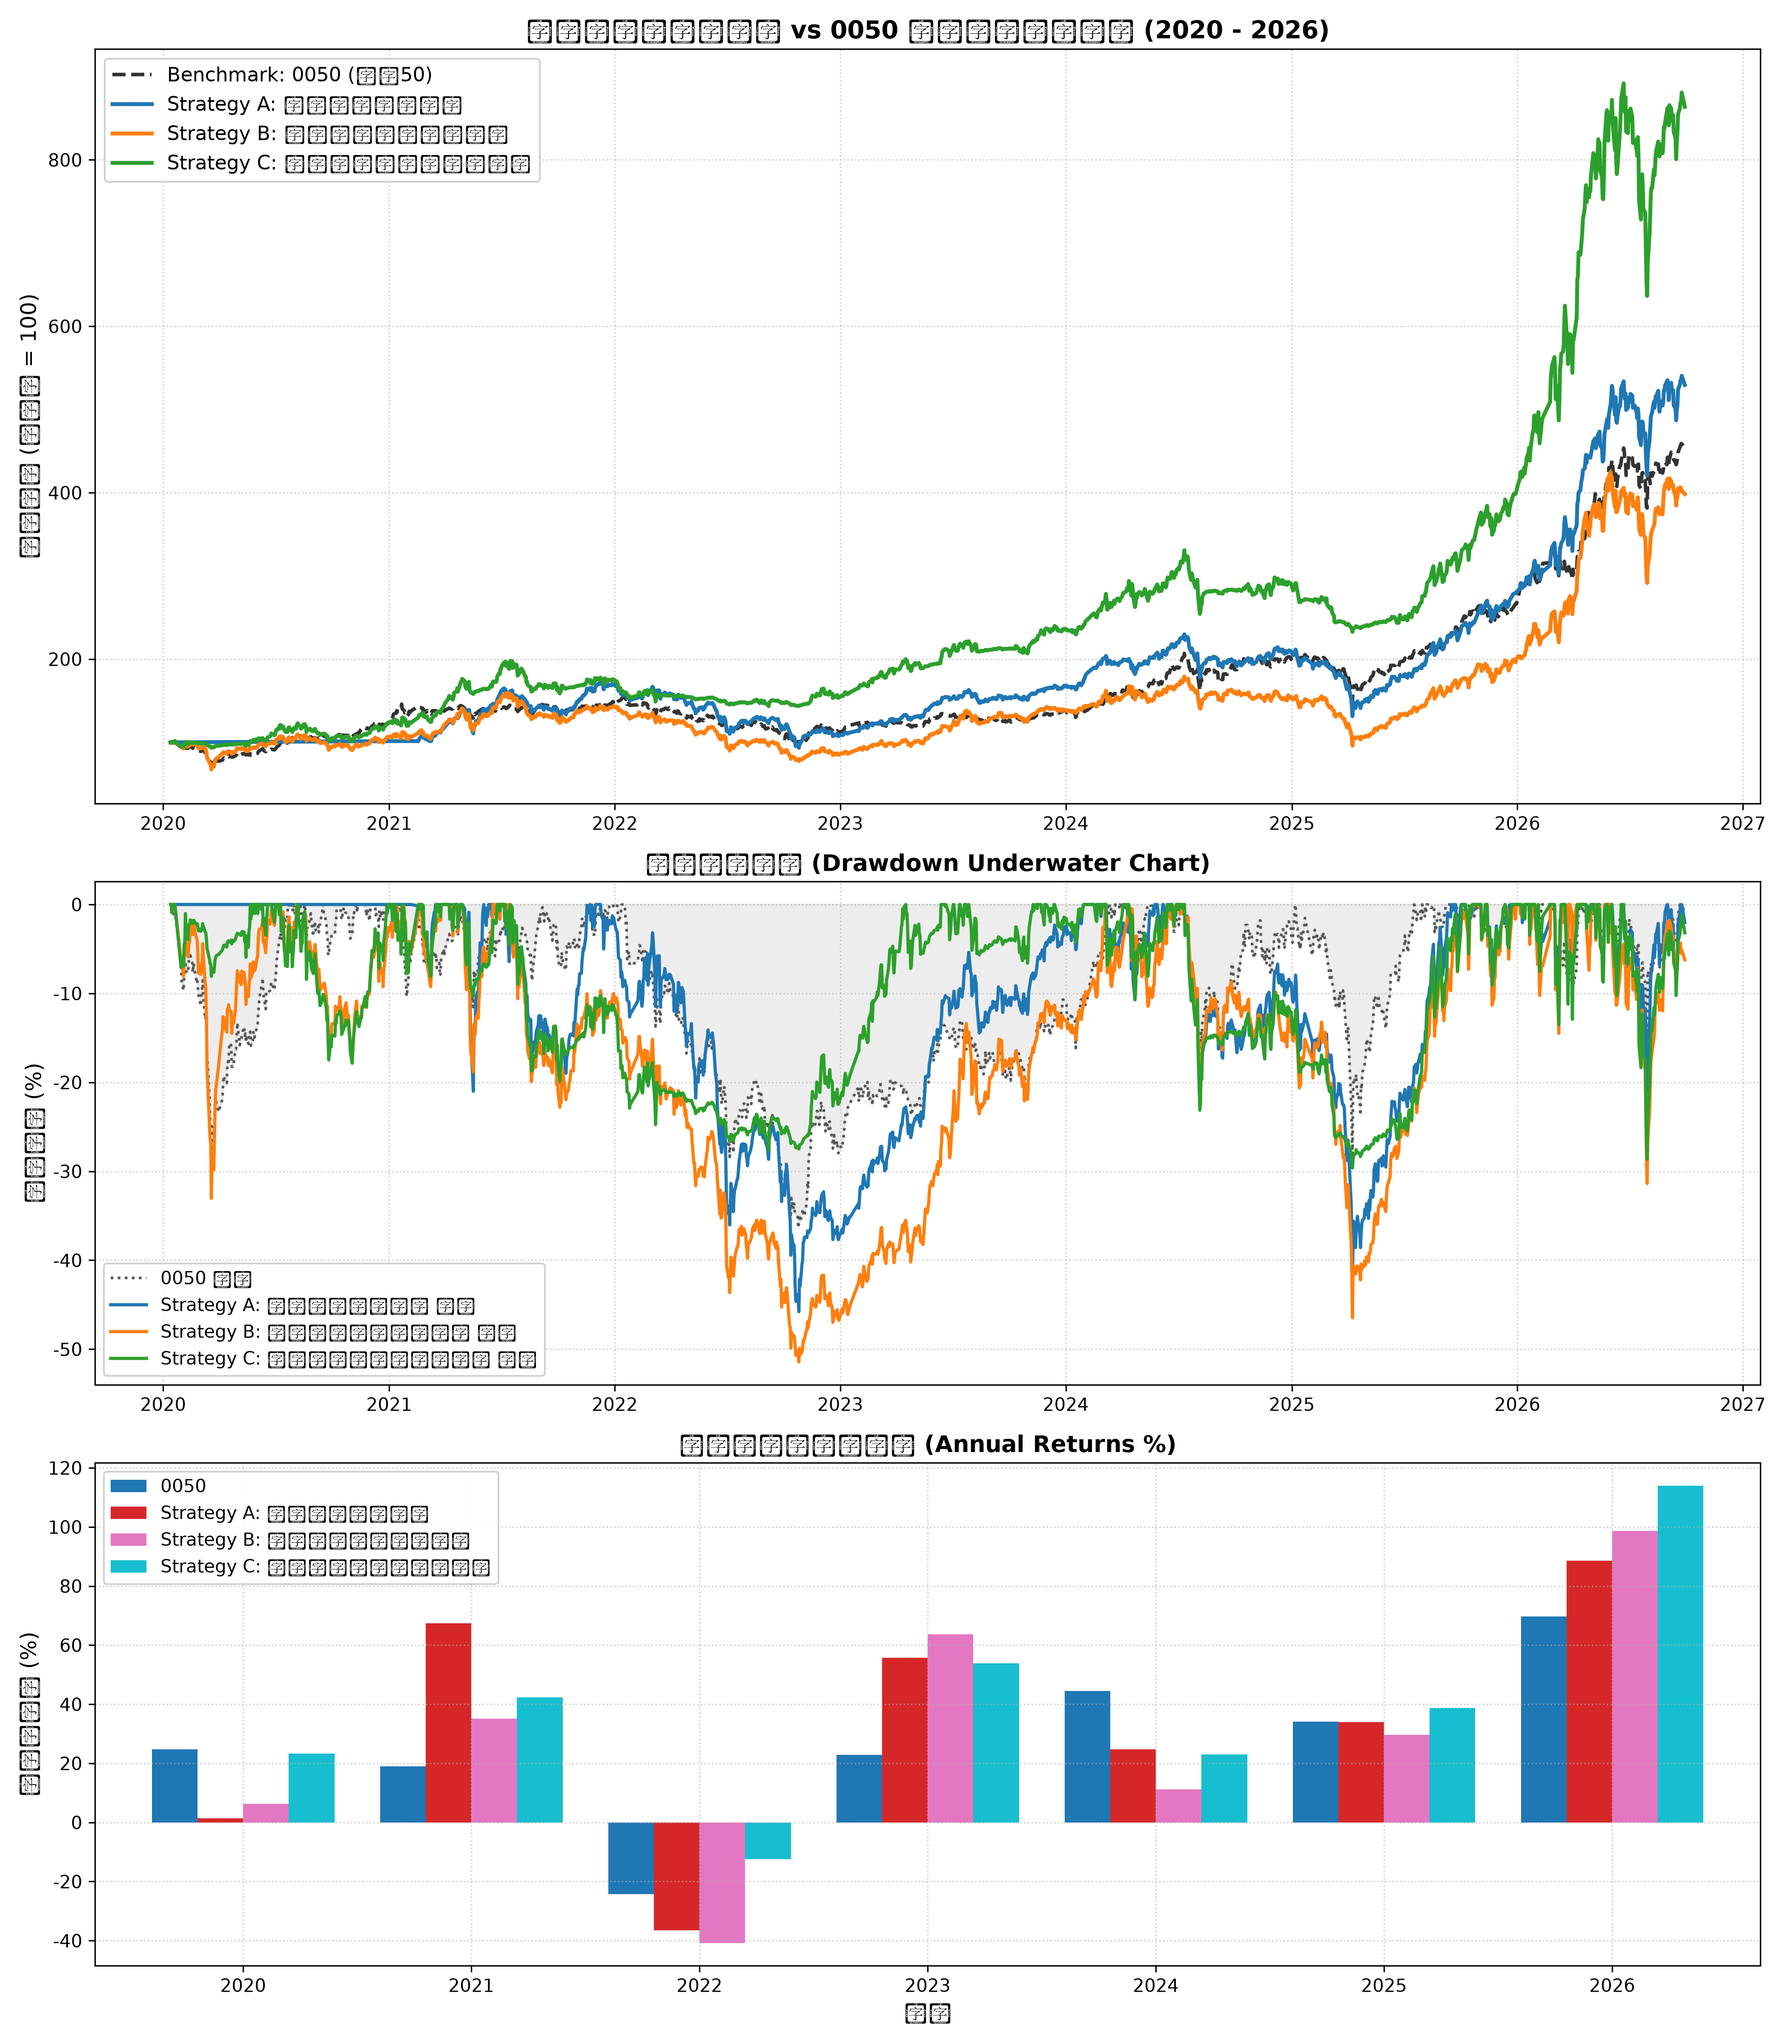
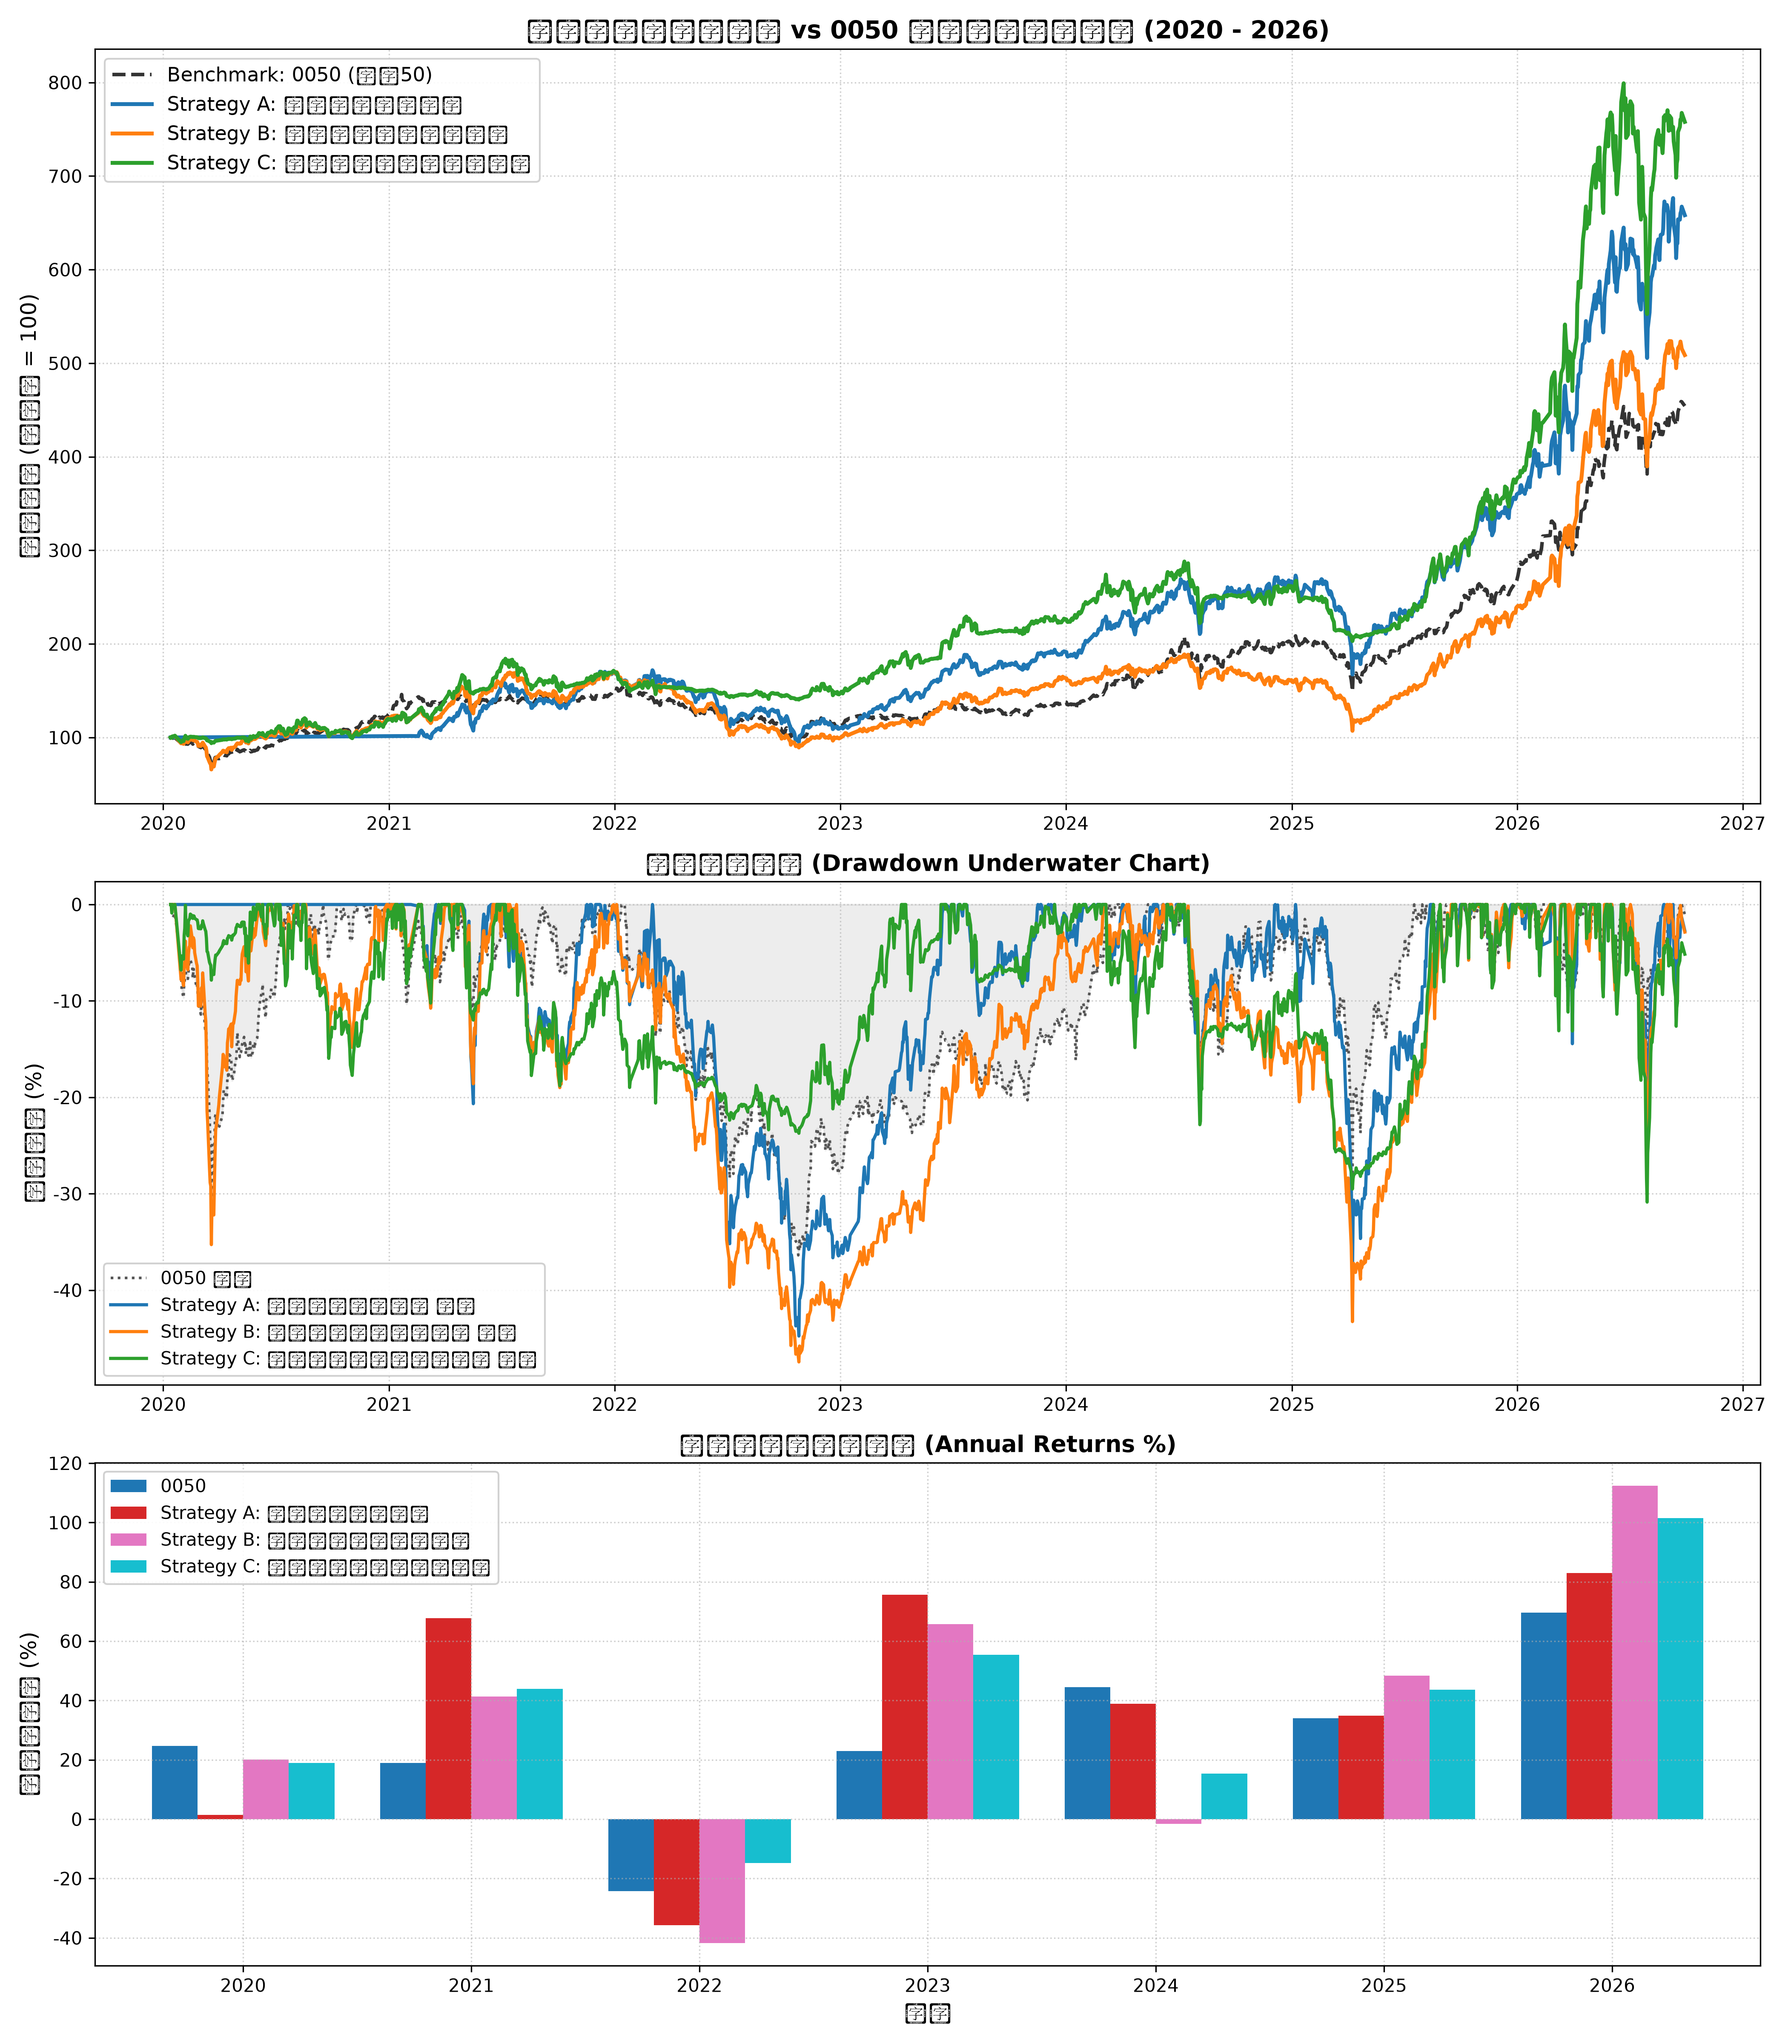
docs(engine): v3-final verdicts — C adopted, A/B out (full data)

diff --git a/reports/engine_v3/backtest_summary.md b/reports/engine_v3/backtest_summary.md
@@ -5,9 +5,9 @@
 | 策略名稱                           | 總報酬率 (%)   | 年化報酬 CAGR (%)   | 波動度 (%)   | 夏普值 Sharpe   | 最大回撤 MDD (%)   |   風暴比 Calmar | 月勝率 (%)   | Alpha (%)   |   Beta |
 |:-----------------------------------|:---------------|:--------------------|:-------------|:----------------|:-------------------|----------------:|:-------------|:------------|-------:|
 | Benchmark: 0050 Buy & Hold         | 354.29%        | 25.3%               | 23.06%       | -               | 36.38%             |            0.7  | -            | 0.00%       |   1    |
-| Strategy A: 營收爆發突破策略       | 429.5%         | 28.19%              | 26.4%        | 1.05            | 45.78%             |            0.62 | 67.5%        | 9.15%       |   0.74 |
-| Strategy B: 投信法人籌碼共振策略   | 298.31%        | 22.87%              | 31.02%       | 0.8             | 51.43%             |            0.44 | 55.0%        | 0.19%       |   0.89 |
-| Strategy C: 綜合多因子防禦增強策略 | 763.63%        | 37.89%              | 26.07%       | 1.35            | 29.63%             |            1.28 | 61.25%       | 20.56%      |   0.66 |
+| Strategy A: 營收爆發突破策略       | 558.19%        | 32.42%              | 27.76%       | 1.14            | 44.76%             |            0.72 | 71.25%       | 13.06%      |   0.75 |
+| Strategy B: 投信法人籌碼共振策略   | 408.68%        | 27.43%              | 27.92%       | 0.99            | 47.44%             |            0.58 | 62.5%        | 5.71%       |   0.85 |
+| Strategy C: 綜合多因子防禦增強策略 | 657.96%        | 35.23%              | 27.24%       | 1.23            | 30.87%             |            1.14 | 56.25%       | 17.63%      |   0.68 |
 
 ## 2. 累計淨值與回撤走勢圖
 
@@ -17,11 +17,11 @@
 
 |      |   0050 |   Strategy A: 營收爆發突破策略 |   Strategy B: 投信法人籌碼共振策略 |   Strategy C: 綜合多因子防禦增強策略 |
 |-----:|-------:|-------------------------------:|-----------------------------------:|-------------------------------------:|
-| 2020 |  24.74 |                           1.41 |                               6.26 |                                23.35 |
-| 2021 |  19.02 |                          67.43 |                              35.15 |                                42.37 |
-| 2022 | -24.26 |                         -36.49 |                             -40.81 |                               -12.46 |
-| 2023 |  22.91 |                          55.74 |                              63.67 |                                53.79 |
-| 2024 |  44.52 |                          24.77 |                              11.15 |                                22.99 |
-| 2025 |  34.05 |                          33.98 |                              29.68 |                                38.77 |
-| 2026 |  69.66 |                          88.61 |                              98.61 |                               114.01 |
+| 2020 |  24.74 |                           1.41 |                              20.11 |                                19.01 |
+| 2021 |  19.02 |                          67.75 |                              41.32 |                                43.97 |
+| 2022 | -24.26 |                         -35.72 |                             -41.72 |                               -14.78 |
+| 2023 |  22.91 |                          75.65 |                              65.81 |                                55.43 |
+| 2024 |  44.52 |                          38.96 |                              -1.63 |                                15.35 |
+| 2025 |  34.05 |                          34.82 |                              48.39 |                                43.69 |
+| 2026 |  69.66 |                          82.92 |                             112.46 |                               101.49 |
 

diff --git a/ENGINE.md b/ENGINE.md
@@ -44,21 +44,20 @@
   3. tn=20 分散效果最好：同 be 下 MDD 最低（22~29%），績效只少 2~3 個點
   4. 代價：be=0 實盤有甩轎風險（季線上下震盪會頻繁進出）；be=0.2 是折衷，2022 -15~-17%
   5. A/B 維持 v1 判決：A 雲霄飛車（2022 -40~-43%）、B OOS 51~52% 跑輸 0050 出局
-## engine_v3（2026-10-01，A2 全市場母池；初跑＋補抓中）
+## engine_v3（2026-10-01，A2 全市場母池；final 定案）
 - 母池：全市場 TWSE/TPEx 普通股 2165 檔 → yfinance 抓到 1985 檔價格 → 每年 Top-200（前年均成交額），母池聯集 477 檔
 - 根治手挑偏差；成交額是規模代理（真市值 API 要付費）；殘留偏差：已下市股抓不到，全年缺席
-- ⚠ 初跑資料殘缺：FinMind 免費配額爆掉——營收只抓到 309/477、法人僅 39/477（"Requests reach the upper limit"）
-  → 初跑數字僅供方向參考，已加 `resume`＋`throttle`＋每 15 檔存檔，慢速補抓中
-- 初跑結果（tn=20、be=0.2，IS 對 8.52% / OOS 對 54.6%）：
+- 補抓完成：營收 475/477、法人 476/476；唯一缺口 9103.TW 月營收（FinMind 三輪皆無資料，非配額問題，視為無資料）
+- final 結果（tn=20、be=0.2，split=2023-12-31，同初跑參數重跑）：
 
 | 策略 | IS CAGR | IS Sharpe | IS MDD | OOS CAGR | OOS Sharpe | OOS MDD | 2022（0050 -24.26%） |
 |------|---------|-----------|--------|----------|------------|---------|---------------------|
-| A 營收爆發 | 13.99% | 0.65 | 45.78% | 52.00% | 1.50 | 42.82% | -36.49% |
-| B 投信籌碼 | 8.70% | 0.40 | 51.43% | 46.94% | 1.26 | 46.46% | -40.81% |
-| C 多因子防禦 | 24.28% | 1.09 | 27.60% | 60.53% | 1.67 | 29.63% | -12.46% |
+| A 營收爆發 | 17.92% | 0.79 | 44.76% | 56.98% | 1.52 | 38.73% | -35.72% |
+| B 投信籌碼 | 13.31% | 0.58 | 47.44% | 51.40% | 1.48 | 43.26% | -41.72% |
+| C 多因子防禦 | 23.00% | 1.01 | 23.73% | 55.48% | 1.50 | 30.87% | -14.78% |
 
-- 初判（待補抓後確認）：
-  1. C 仍兩段勝 0050、2022 -12.5% 防禦有效——且法人腳幾乎全缺，等於靠營收＋動量＋降倉打出來的
-  2. A 升級為出局：全市場池下 OOS 52.0% 跑輸 0050（v1/v2 的 OOS 勝利是生還者池墊的）
-  3. B 維持出局，但從未公平審過（法人資料全缺）——補抓後給它重審一次
-- 下一步 v3-final：補抓完成 → 同參重跑 → 數字定案。
+- 定案：
+  1. C 採用：兩段 CAGR 皆勝 0050（IS 23.0% 對 8.52%、OOS 55.48% 對 54.6%）、2022 只 -14.8% 防禦有效——且這是法人資料補滿後打的，比初跑更可信
+  2. A 出局（維持初判）：OOS 56.98% 帳面贏 0050 不到 3 個點，但 MDD 38.73%、2022 -35.7% 比 0050 慘一個量級——多擔的風險沒換到超額報酬
+  3. B 出局：法人資料補滿後重審，OOS 51.4% 輸 0050、2022 -41.7% 三策略最慘——給過公平機會，判死
+
